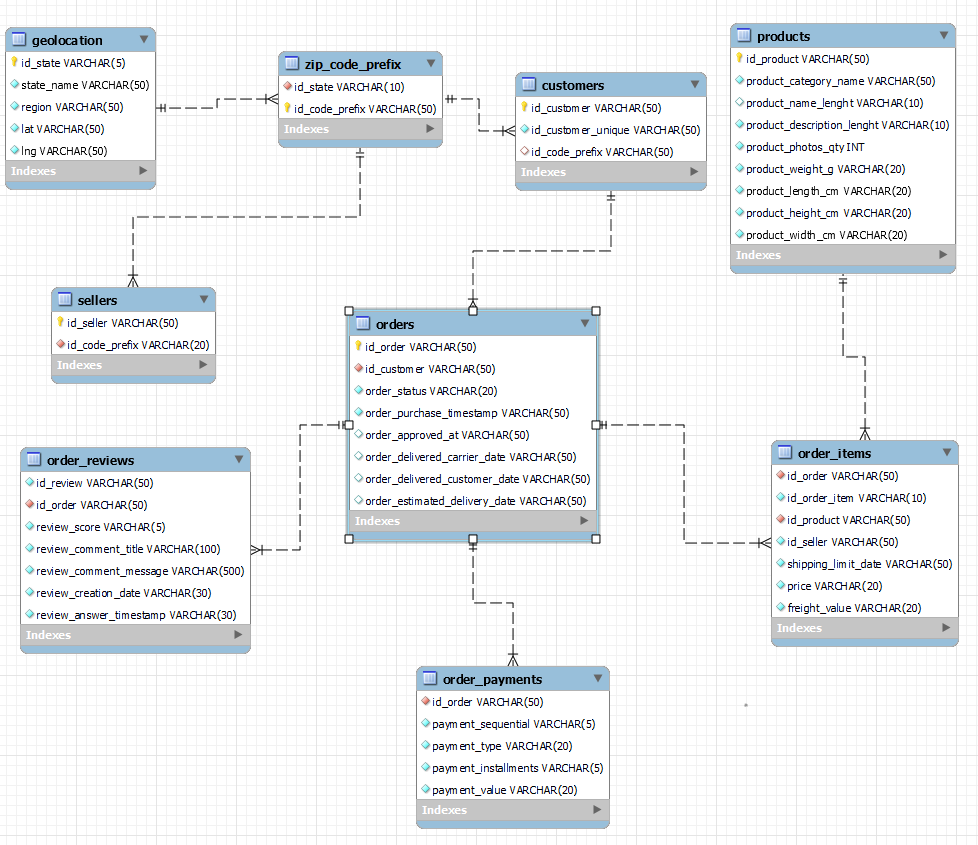
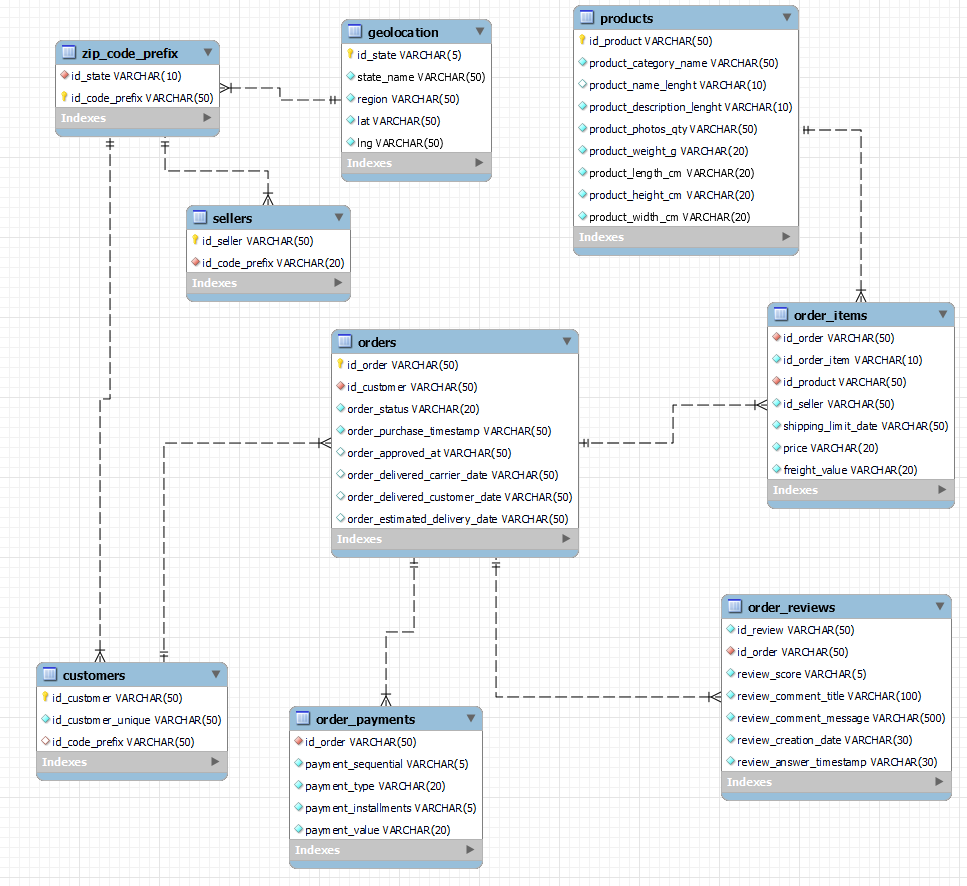
commit maciela

diff --git a/app/funciones_carga.py b/app/funciones_carga.py
@@ -2,7 +2,6 @@
 # ****************************************************** Librerias *********************************************************
 # **************************************************************************************************************************
 import pymysql
-import sqlalchemy
 import pandas as pd
 import funciones_etl
 
@@ -35,7 +34,6 @@ def enviar_email(validaciones):
         message = """Reporte automático sobre integridad de datos en base de datos Olist
                                 
                     • customers: {} 
-                    • marketing_qualified_leads: {} 
                     • order_items: {} 
                     • order_payments: {} 
                     • order_reviews: {} 
@@ -44,10 +42,10 @@ def enviar_email(validaciones):
                     • sellers: {} 
                 """.format(validaciones[0],validaciones[1],validaciones[2],
                             validaciones[3],validaciones[4],validaciones[5],
-                            validaciones[6],validaciones[7])
+                            validaciones[6])
         print(message)
         # setup the parameters of the message 
-        password = "comauhyufyulgdry"
+        password = "oiwgkqfnjywwhval"
         msg['From'] = "grupo3.olist@gmail.com"
         msg['To'] = "mmacielaortiz@gmail.com"
         msg['Subject'] = "Validacion"
@@ -96,9 +94,7 @@ def motor():
     order_items = funciones_etl.order_items_etl()
     order_reviews = funciones_etl.order_reviews_etl()
     order_payments = funciones_etl.order_payments_etl()
-    #closed_deals = funciones_etl.closed_deals_etl()
     customers = funciones_etl.customers_etl()
-    marketing_qualified_leads = funciones_etl.marketing_qualified_leads_etl()
     zip_code_prefix = funciones_etl.zip_code_prefix_etl()
     geolocation =funciones_etl.geolocation_etl()
     print("Proceso de etl finalizado correctamente")
@@ -121,8 +117,6 @@ def motor():
                     target = order_payments
                 else:
                     target = orders
-            case "mql_id":   
-                    target = marketing_qualified_leads
             case "id_review":
                 target = order_reviews
 
@@ -138,7 +132,7 @@ def motor():
                 return False
         return True
     
-    validacion=(validate_df(customers),validate_df(marketing_qualified_leads),
+    validacion=(validate_df(customers),
             validate_df(order_items), validate_df(order_payments),validate_df(order_reviews),
             validate_df(sellers),validate_df(products),validate_df(orders))
     
@@ -156,7 +150,7 @@ def motor():
                                                 product_category_name VARCHAR(50) NOT NULL,
                                                 product_name_lenght VARCHAR(10),
                                                 product_description_lenght VARCHAR(10) NOT NULL,
-                                                product_photos_qty INT NOT NULL,
+                                                product_photos_qty VARCHAR(50) NOT NULL,
                                                 product_weight_g VARCHAR(20) NOT NULL,
                                                 product_length_cm VARCHAR(20) NOT NULL,
                                                 product_height_cm VARCHAR(20) NOT NULL,
@@ -377,67 +371,7 @@ def motor():
         cursor.execute("UPDATE orders SET order_delivered_customer_date = NULL WHERE order_delivered_customer_date = '';")
         cursor.execute("UPDATE orders SET order_estimated_delivery_date = NULL WHERE order_estimated_delivery_date = '';")
         conexion.commit()
-
-        # -----------------------------------------------------------------------------------------------------------------------
-        # MARKETING_QUALIFIED_LEADS
-        cursor.execute("""CREATE TABLE IF NOT EXISTS marketing_qualified_leads(
-                                                                            mql_id VARCHAR(50) NOT NULL, 
-                                                                            first_contact_date VARCHAR(30) NOT NULL,
-                                                                            landing_page_id VARCHAR(50) NOT NULL,
-                                                                            origin VARCHAR(20) NOT NULL)
-                            ENGINE=InnoDB DEFAULT CHARSET=utf8mb4 COLLATE=utf8mb4_spanish_ci;""") # Ejecute cualquier Query deseada
-        conexion.commit() # actualizo para ver los datos
-
-        cursor.execute('SELECT * FROM marketing_qualified_leads;')
-        sql = cursor.fetchall()
-        sql_dataframe = pd.DataFrame()
-
-        # Armo las series
-        mql_id=[]
-        first_contact_date=[]
-        landing_page_id=[]
-        origin=[]
-
-        for i in range(len(sql)):
-            mql_id.append(sql[i][0])  
-            first_contact_date.append(sql[i][1])  
-            landing_page_id.append(sql[i][2])  
-            origin.append(sql[i][3])  
-
-        # Armo el dataframe
-        sql_dataframe['mql_id']=mql_id
-        sql_dataframe['first_contact_date']=first_contact_date
-        sql_dataframe['landing_page_id']=landing_page_id
-        sql_dataframe['origin']=origin
-
-        # Normalizamos los tipos de dato
-        lst = sql_dataframe.columns.to_list()
-        for i in range(len(lst)):
-            sql_dataframe[lst[i]] = sql_dataframe[lst[i]].astype(marketing_qualified_leads[lst[i]].dtype)
-
-        # Check de informacion nueva
-        filtro = sql_dataframe.merge(marketing_qualified_leads, how='outer', indicator='union')
-        filtro = filtro[filtro['union']=='right_only']
-        filtro = filtro[filtro.columns[:-1]]
-
-        # Carga a base de datos, de ser necesario.
-        filas_max = len(filtro.mql_id.to_list())
-        if filas_max > 0:
-            lista = []
-            for i in range (filas_max):
-                lista.append(tuple(filtro.iloc[i]))
-
-            cursor.executemany("""INSERT INTO marketing_qualified_leads(
-                                                mql_id, 
-                                                first_contact_date,
-                                                landing_page_id,
-                                                origin)VALUES (%s, %s,%s, %s)""", lista)
-            conexion.commit() # actualizo para ver los datos
-
-        # Cambio los vacios por null
-        cursor.execute("UPDATE marketing_qualified_leads SET first_contact_date = NULL WHERE first_contact_date = '';")
-        conexion.commit()
-
+        
         # -----------------------------------------------------------------------------------------------------------------------
         # ORDER_REVIEWS
         cursor.execute("""CREATE TABLE IF NOT EXISTS order_reviews(
@@ -719,10 +653,6 @@ def motor():
         cursor.execute("UPDATE customers SET id_code_prefix = NULL WHERE id_code_prefix = '';")
         conexion.commit()
 
-        # Cambio de tipo de columna
-        cursor.execute("ALTER TABLE customers MODIFY COLUMN id_code_prefix INT;")
-        conexion.commit()
-
         # -----------------------------------------------------------------------------------------------------------------------
         # ZIP_CODE_PREFIX
         cursor.execute("""CREATE TABLE IF NOT EXISTS zip_code_prefix(
@@ -829,7 +759,9 @@ def motor():
                                                         VALUES (%s, %s, %s, %s, %s)""", lista)
             conexion.commit() # actualizo para ver los datos
 
-
+    cursor.close()
+    conexion.close()
+    print('Se cerró la conexión a la DB')
     print("Carga finalizada")
     return 'Carga finalizada'
 
